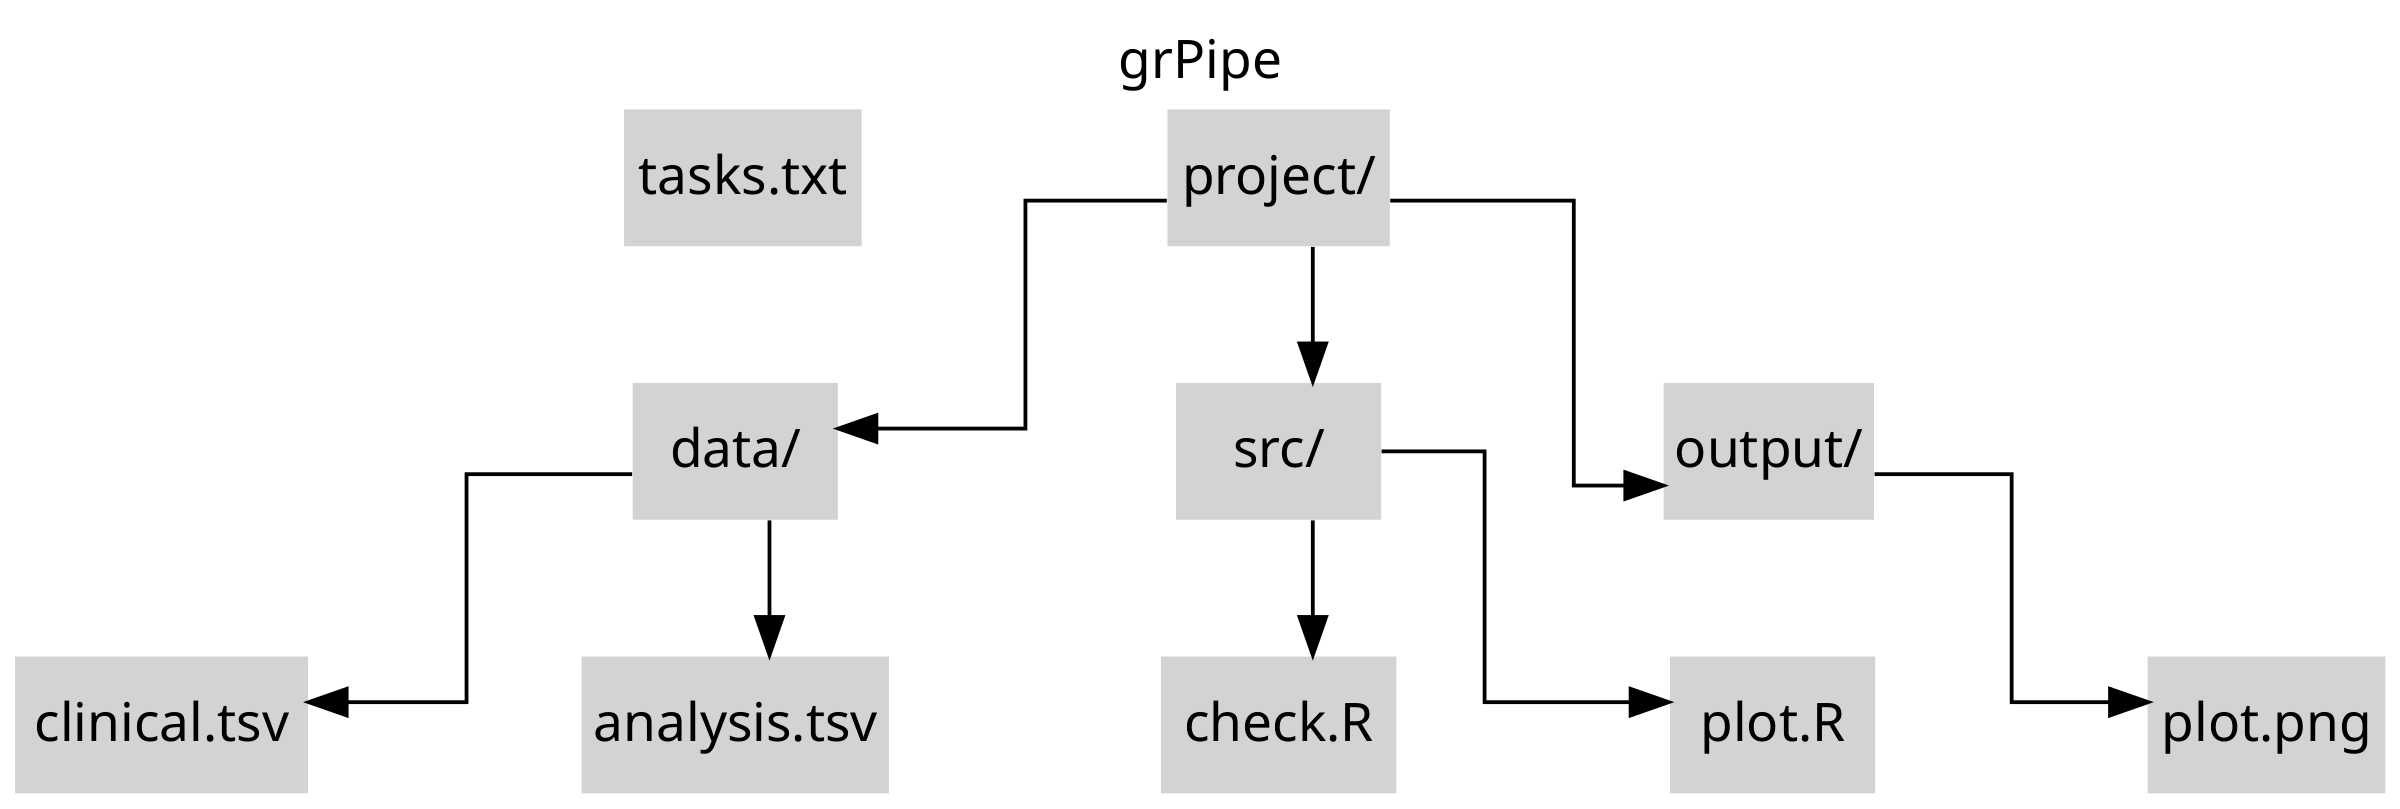
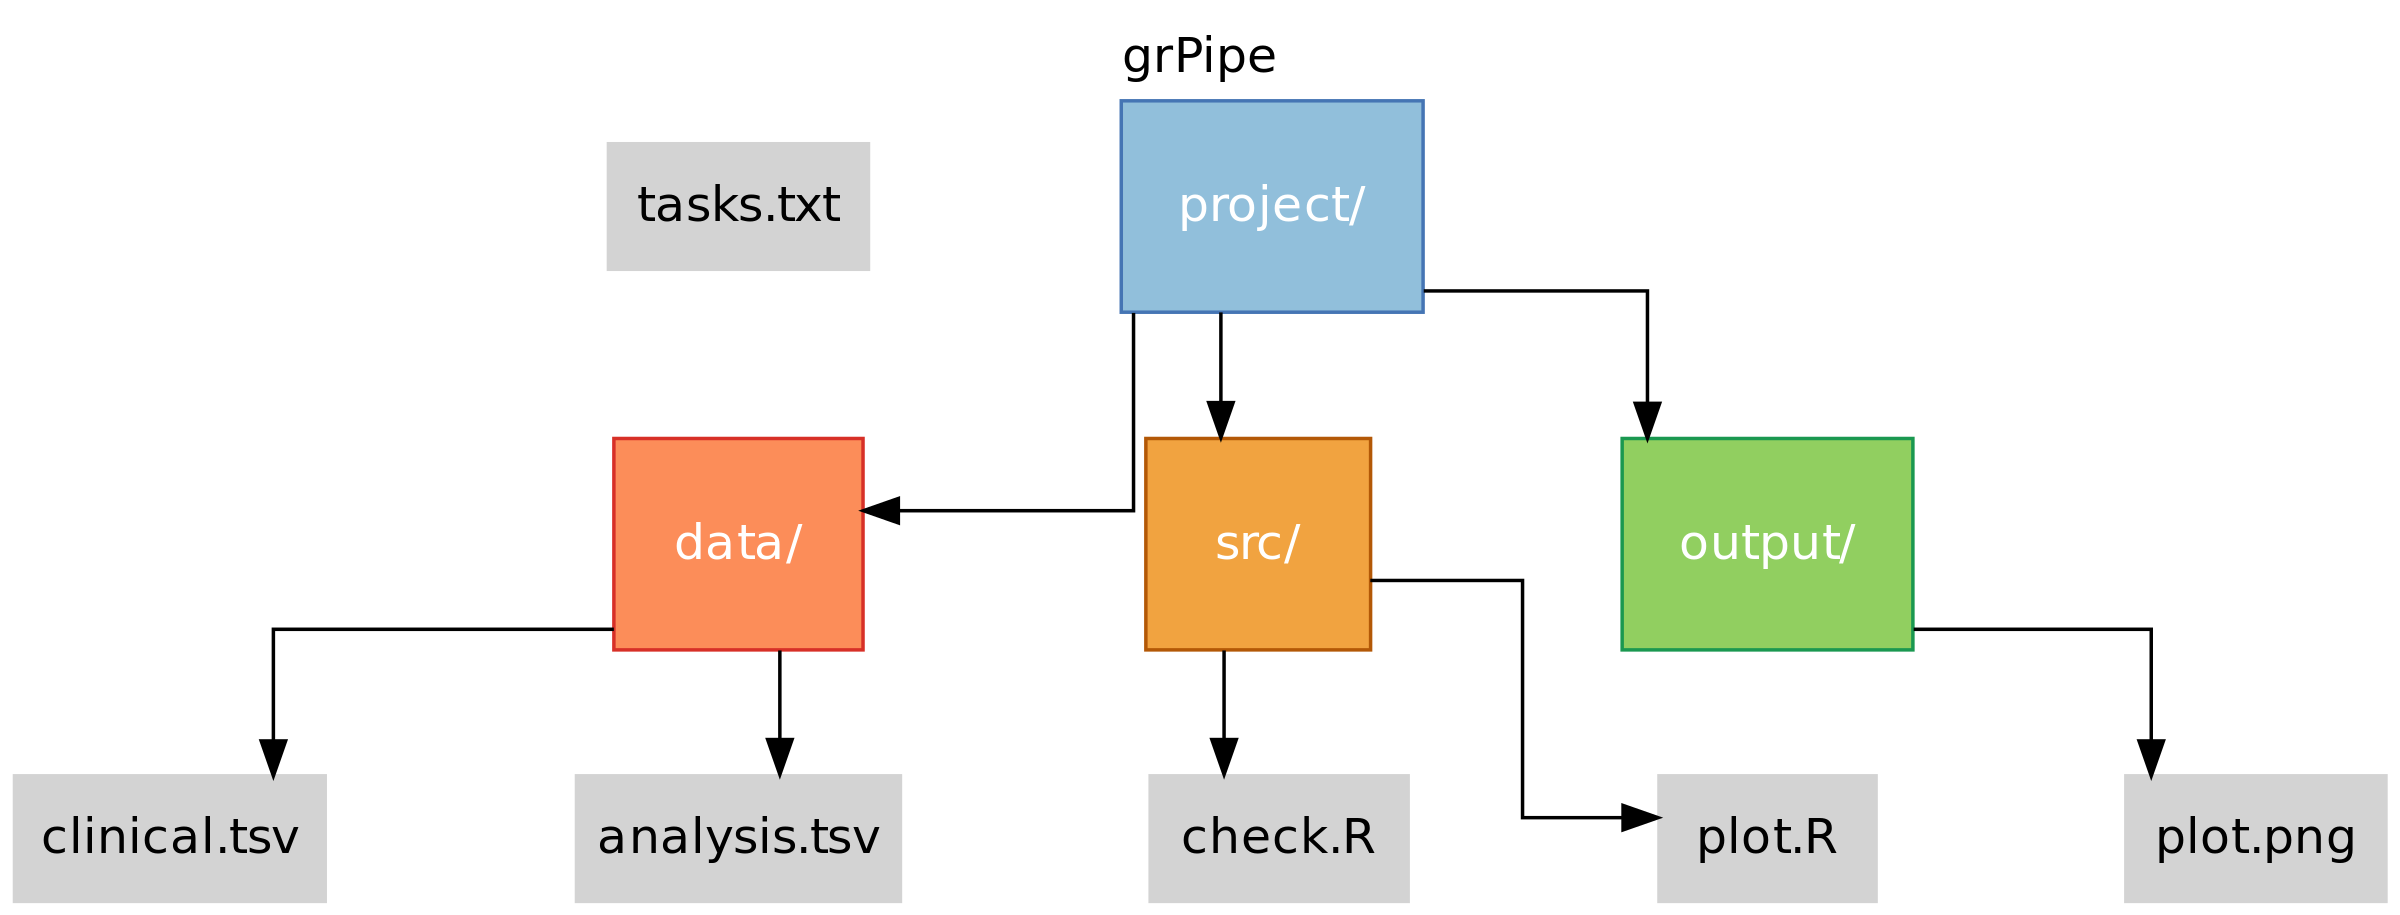
add attr to node

diff --git a/README.md b/README.md
@@ -98,14 +98,14 @@ grPipe.plot(
 # add nodes
 nodes = grPipe.node(nodes, "A3",  "B2",  "project/")
 nodes = grPipe.node(nodes, "B2",  "C1",  "data/")
-nodes = grPipe.node(nodes, "B2",  "C2",  "data/")
+nodes = grPipe.node(nodes, "B2",  "C2",  "data/", "style=filled, shape=box, fillcolor='#fc8d59', color='#d73027', margin='0.3,0.3', fontcolor=white")
 
 nodes = grPipe.node(nodes, "A3",  "B3",  "project/")
 nodes = grPipe.node(nodes, "B3",  "C3",  "src/")
-nodes = grPipe.node(nodes, "B3",  "C4",  "src/")
+nodes = grPipe.node(nodes, "B3",  "C4",  "src/", "style=filled, shape=box, fillcolor='#f1a340', color='#b35806', margin='0.3,0.3', fontcolor=white")
 
-nodes = grPipe.node(nodes, "A3",  "B4",  "project/")
-nodes = grPipe.node(nodes, "B4",  "C5",  "output/")
+nodes = grPipe.node(nodes, "A3",  "B4",  "project/", "style=filled, shape=box, fillcolor='#91bfdb', color='#4575b4', margin='0.3,0.3', fontcolor=white")
+nodes = grPipe.node(nodes, "B4",  "C5",  "output/", "style=filled, shape=box, fillcolor='#91cf60', color='#1a9850', margin='0.3,0.3', fontcolor=white")
 
 # last node (id_next = NA)
 nodes = grPipe.node(nodes, "C1",  NA,  "clinical.tsv")
